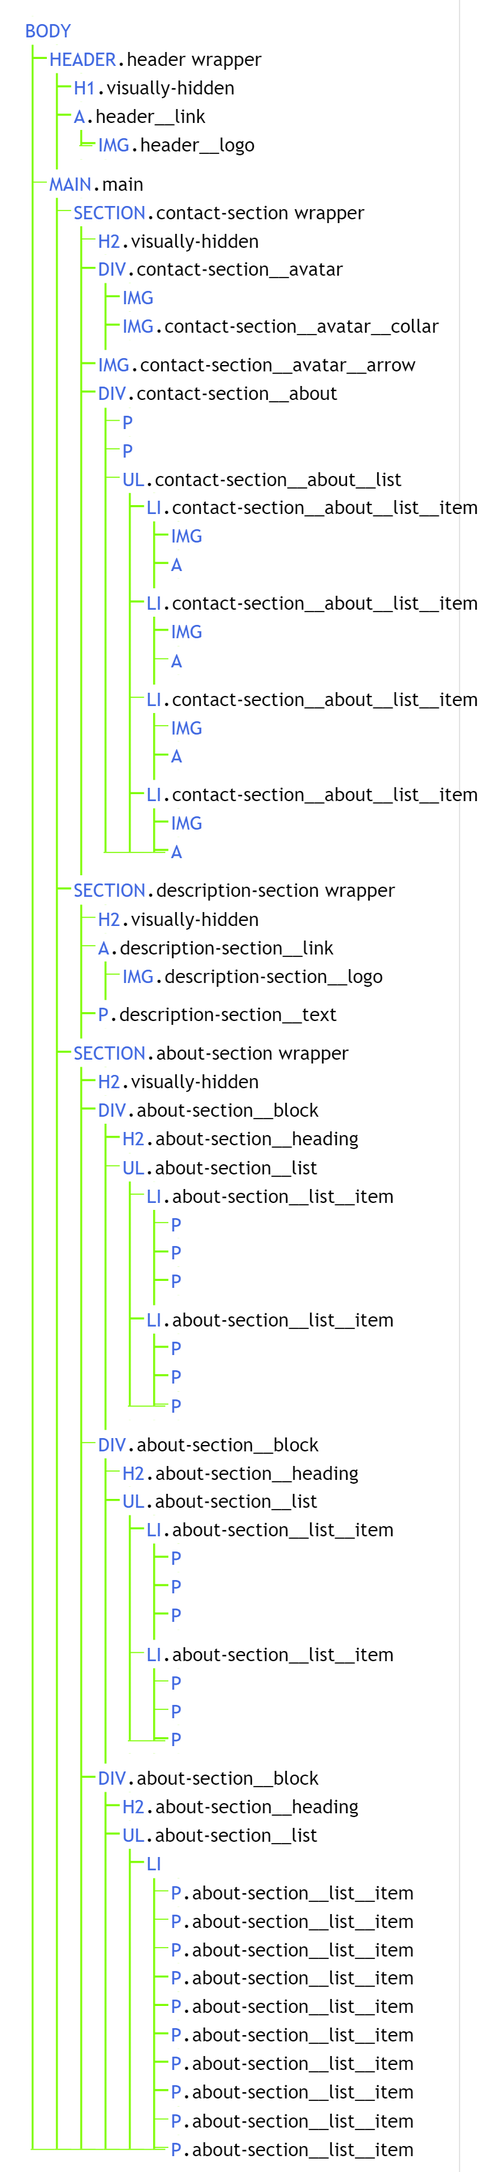
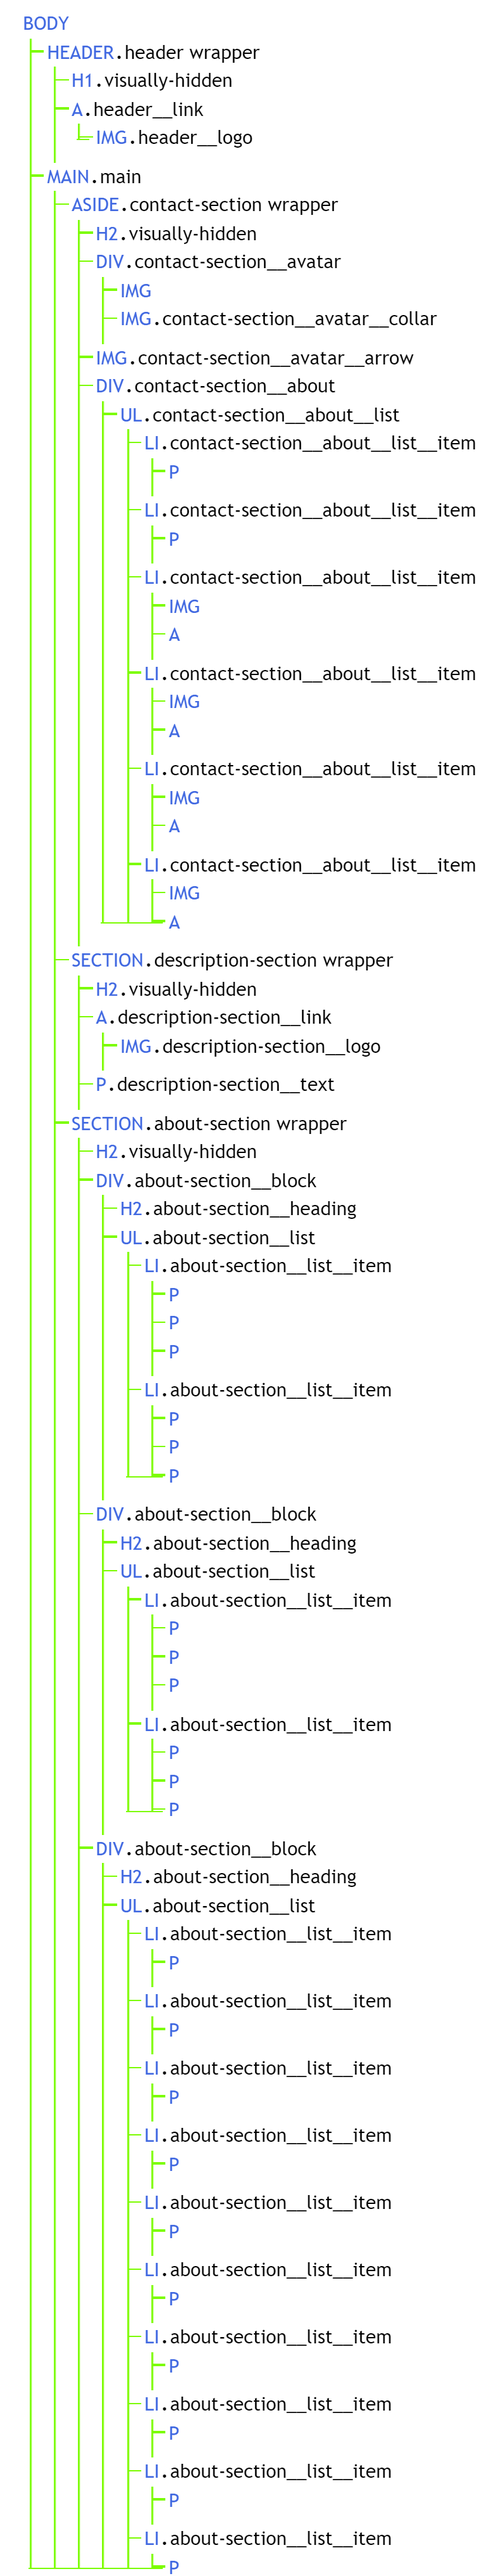
refactor: Edits on semantics and css have been made

diff --git a/index.html b/index.html
@@ -15,7 +15,7 @@
         </a>
     </header>
     <main class="main">
-        <section class="contact-section wrapper">
+        <aside class="contact-section wrapper">
             <h2 class="visually-hidden">Контактная информация</h2>
             <div class="contact-section__avatar">
                 <img src="./assets/img/avatar.jpg" alt="photo" width="320">
@@ -23,9 +23,13 @@
             </div>
             <img class="contact-section__avatar__arrow" src="./assets/img/icons/arrow.svg" alt="arrow">
             <div class="contact-section__about">
-                <p>Старцев Виталий</p>
-                <p>20 лет, Москва</p>
                 <ul class="contact-section__about__list">
+                    <li class="contact-section__about__list__item">
+                        <p>Старцев Виталий</p>
+                    </li>
+                    <li class="contact-section__about__list__item">
+                        <p>20 лет, Москва</p>
+                    </li>
                     <li class="contact-section__about__list__item">
                         <img src="./assets/img/icons/phone.svg" alt="phone" width="24" height="24">
                         <a href="tel:+79362728298">+7 936 272 82 98</a>
@@ -44,7 +48,7 @@
                     </li>
                 </ul>
             </div>
-        </section>
+        </aside>
         <section class="description-section wrapper">
             <h2 class="visually-hidden">Приветствие</h2>
             <a class="description-section__link" href="index.html">
@@ -91,17 +95,35 @@
             <div class="about-section__block">
                 <h2 class="about-section__heading">Навыки</h2>
                 <ul class="about-section__list">
-                    <li>
-                        <p class="about-section__list__item">HTML</p>
-                        <p class="about-section__list__item">CSS</p>
-                        <p class="about-section__list__item">SCSS/SASS</p>
-                        <p class="about-section__list__item">JavaScript</p>
-                        <p class="about-section__list__item">React</p>
-                        <p class="about-section__list__item">Python</p>
-                        <p class="about-section__list__item">Django</p>
-                        <p class="about-section__list__item">PHP</p>
-                        <p class="about-section__list__item">MySQL</p>
-                        <p class="about-section__list__item">Bootstrap3</p>
+                    <li class="about-section__list__item">
+                        <p>HTML</p>
+                    </li>
+                    <li class="about-section__list__item">
+                        <p>CSS</p>
+                    </li>
+                    <li class="about-section__list__item">
+                        <p>SCSS/SASS</p>
+                    </li>
+                    <li class="about-section__list__item">
+                        <p>JavaScript</p>
+                    </li>
+                    <li class="about-section__list__item">
+                        <p>React</p>
+                    </li>
+                    <li class="about-section__list__item">
+                        <p>Python</p>
+                    </li>
+                    <li class="about-section__list__item">
+                        <p>Django</p>
+                    </li>
+                    <li class="about-section__list__item">
+                        <p>PHP</p>
+                    </li>
+                    <li class="about-section__list__item">
+                        <p>MySQL</p>
+                    </li>
+                    <li class="about-section__list__item">
+                        <p>Bootstrap3</p>
                     </li>
                 </ul>
             </div>

diff --git a/assets/css/main.css b/assets/css/main.css
@@ -41,10 +41,12 @@ h4, h5, h6, p {
     margin: 0 auto;
 }
 
+
 /* === HEADER === */
 .header {
     margin: 20px 0px 48px 20px;
 }
+
 
 /* === CONTACT SECTION === */
 .contact-section {
@@ -76,25 +78,25 @@ h4, h5, h6, p {
     position: absolute;
     top: 450px;
 }
-.contact-section__about > p:first-child {
+.contact-section__about__list {
+    list-style-type: none;
+}
+.contact-section__about__list__item:nth-child(n+3) {
+    margin-bottom: 16px;
+    display: flex;
+    align-items: center;
+}
+.contact-section__about__list__item:first-child > p {
     font-size: 20px;
     line-height: 24px;
     font-family: var(--font-collar);
     margin-bottom: 4px;
 }
-.contact-section__about > p:nth-child(2) {
+.contact-section__about__list__item:nth-child(2) > p {
     font-size: 16px;
     line-height: 20px;
     font-family: var(--font-commons);
     margin-bottom: 32px;
-}
-.contact-section__about__list {
-    list-style-type: none;
-}
-.contact-section__about__list__item {
-    margin-bottom: 16px;
-    display: flex;
-    align-items: center;
 }
 .contact-section__about__list__item:last-child {
     margin-bottom: 0px;
@@ -108,6 +110,7 @@ h4, h5, h6, p {
     font-family: var(--font-commons);
     font-size: 16px;
 }
+
 
 /* === DESCRIPTION SECTION === */
 .description-section__text {
@@ -123,6 +126,7 @@ h4, h5, h6, p {
     scale: 0;
     visibility: hidden;
 }
+
 
 /* === ABOUT SECTION === */
 .about-section {
@@ -148,9 +152,9 @@ h4, h5, h6, p {
     list-style-type: none;
 }
 .about-section__block:last-child >
-.about-section__list > li {
+.about-section__list {
     display: flex;
-    flex-direction: row;
+    gap: 10px;
     flex-wrap: wrap;
 }
 .about-section__list:last-child > li:last-child > p {
@@ -183,6 +187,7 @@ h4, h5, h6, p {
         grid-template-rows: none;
         grid-template-areas: 'contact about'
                              'contact bio';
+        justify-content: center;
         column-gap: 31px;
         margin-right: 40px;
     }
@@ -210,23 +215,20 @@ h4, h5, h6, p {
     }
     .contact-section__about {
         max-width: 322px;
-        padding: 40px 24px 158px;
+        padding: 40px 24px 169px;
         border-radius: 24px 24px 0px 0px;
         top: 440px;
     }
-    .contact-section__about > p:first-child {
+    .contact-section__about__list__item:first-child > p {
         font-size: 24px;
         line-height: 28px;
         margin-bottom: 8px;
     }
-    .contact-section__about > p:nth-child(2) {
+    .contact-section__about__list__item:nth-child(2) > p {
         font-size: 20px;
         line-height: 24px;
         font-family: var(--font-commons);
         margin-bottom: 40px;
-    }
-    .contact-section__about__list__item {
-        margin-bottom: 20px;
     }
     .contact-section__about__list__item > a {
         font-size: 20px;
@@ -258,14 +260,12 @@ h4, h5, h6, p {
     .about-section__block {
         display: flex;
     }
-    .about-section__list:last-child > li:last-child {
+    .about-section__block:last-child >
+    .about-section__list {
+        gap: 20px;
         flex-wrap: nowrap;
     }
     .about-section__heading {
         flex-basis: 250px;
     }
-    .about-section__list__item {
-        flex-basis: 400px;
-    }
-
 }
